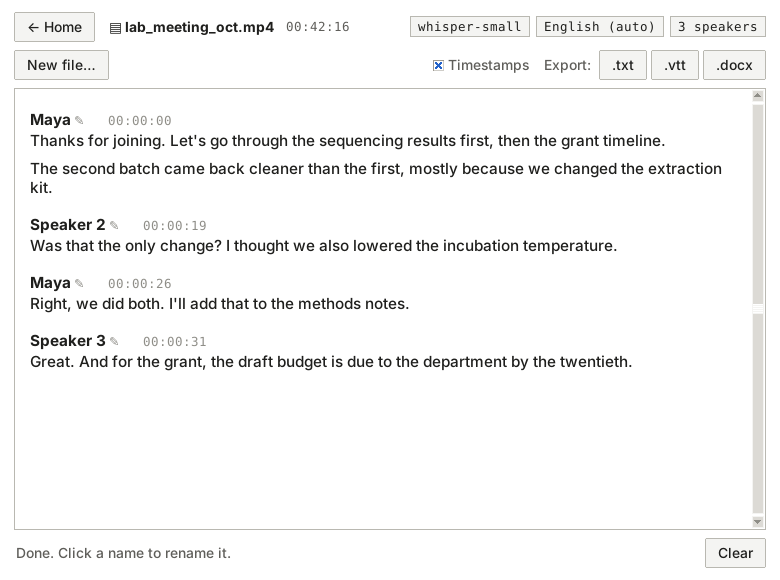
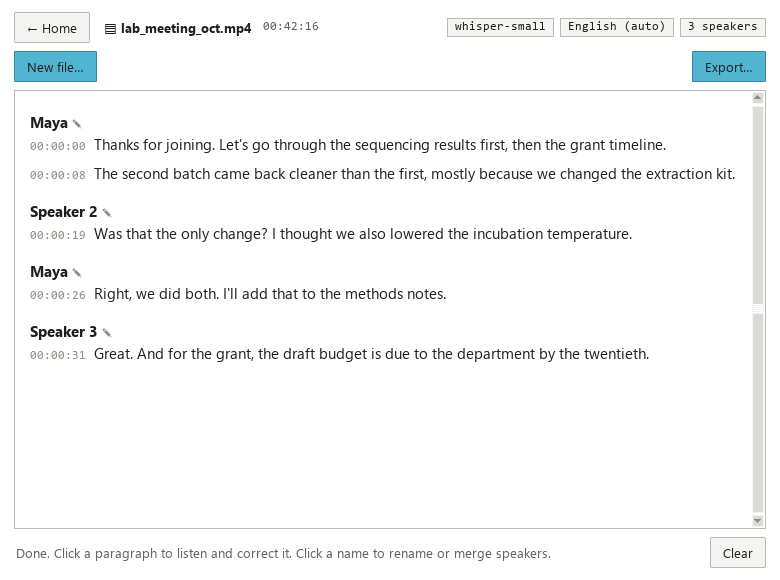
Update README screenshots for the current interface

diff --git a/README.md b/README.md
@@ -12,7 +12,7 @@ Everything runs locally. Your audio never leaves your computer; the only interne
 |---|---|---|
 | ![Start screen](docs/start.png) | ![A finished file transcript with speaker labels](docs/file.png) | ![Live transcription while recording](docs/live.png) |
 
-*(Screenshots were taken on Linux. On Windows and macOS,* `diemut` *looks much the same but uses your system's fonts.)*
+*(Screenshots show* `diemut` *with Windows' fonts, Segoe UI and Consolas. On macOS and Linux it looks much the same but uses your system's fonts.)*
 
 ## What it does
 
@@ -28,6 +28,35 @@ Under the hood, `diemut` uses two models:
 - **`sherpa-onnx`** for speaker labels.
 
 Paragraph breaks don't come from a model. `diemut` starts a new paragraph when there's a pause of more than 1.5 seconds between words (using Whisper's word timings), when the speaker changes, or at the end of a sentence once a paragraph passes about 600 characters. You can split and merge paragraphs yourself, too. The two settings are `PARAGRAPH_PAUSE` and `PARAGRAPH_SOFT_MAX` in `diemut/speakers.py`.
+
+---
+
+## Setup on Linux (Ubuntu/Debian)
+
+```bash
+sudo apt install python3-venv python3-tk libportaudio2
+git clone https://github.com/sohyeonhwang/diemut.git
+cd diemut
+python3 -m venv .venv
+source .venv/bin/activate
+pip install .
+diemut
+```
+
+## Setup on macOS
+
+1. Install **Python 3.14** (not 3.15 yet) from [python.org/downloads/macos](https://www.python.org/downloads/macos/). Use the python.org installer: it includes the window toolkit `diemut` needs, which Homebrew's Python sometimes doesn't.
+2. Get `diemut` (with `git clone` as in the Linux steps above, or the ZIP as in the Windows steps below), then open **Terminal** in the `diemut` folder.
+3. Install and run:
+   ```bash
+   python3.14 -m venv .venv
+   source .venv/bin/activate
+   pip install .
+   diemut
+   ```
+4. The first time you use live mode, macOS asks whether Terminal may use the microphone. Click **Allow**. If you missed it, go to **System Settings → Privacy & Security → Microphone** and turn on Terminal.
+
+To run it again later: `cd` into the folder, run `source .venv/bin/activate`, then `diemut`.
 
 ---
 
@@ -102,35 +131,6 @@ Open PowerShell and run:
 ```powershell
 cd $HOME\code\diemut
 .venv\Scripts\Activate.ps1
-diemut
-```
-
----
-
-## Setup on macOS
-
-1. Install **Python 3.14** (not 3.15 yet) from [python.org/downloads/macos](https://www.python.org/downloads/macos/). Use the python.org installer: it includes the window toolkit `diemut` needs, which Homebrew's Python sometimes doesn't.
-2. Get `diemut` (with `git clone` or the ZIP, as in the Windows steps above), then open **Terminal** in the `diemut` folder.
-3. Install and run:
-   ```bash
-   python3.14 -m venv .venv
-   source .venv/bin/activate
-   pip install .
-   diemut
-   ```
-4. The first time you use live mode, macOS asks whether Terminal may use the microphone. Click **Allow**. If you missed it, go to **System Settings → Privacy & Security → Microphone** and turn on Terminal.
-
-To run it again later: `cd` into the folder, run `source .venv/bin/activate`, then `diemut`.
-
-## Setup on Linux (Ubuntu/Debian)
-
-```bash
-sudo apt install python3-venv python3-tk libportaudio2
-git clone https://github.com/sohyeonhwang/diemut.git
-cd diemut
-python3 -m venv .venv
-source .venv/bin/activate
-pip install .
 diemut
 ```
 
